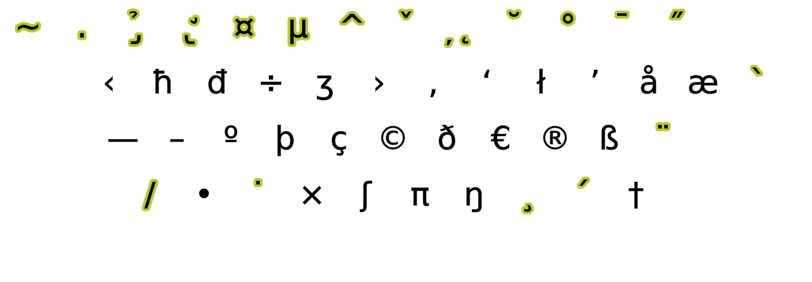
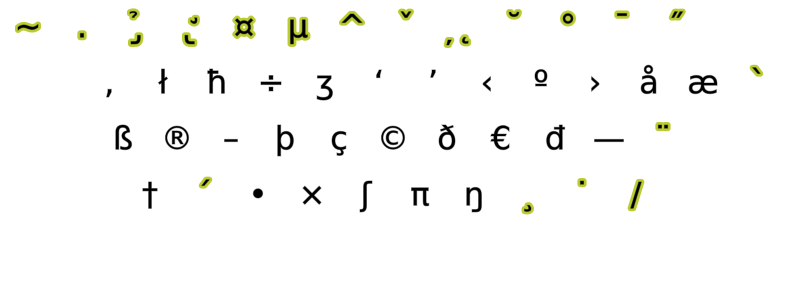
Semimak revised
* Due to too much pinballing, changes were made
* Mostly, column swaps
* As a result, it looks a bit more familiar now

diff --git a/Layouts/Semimak/README.md b/Layouts/Semimak/README.md
@@ -2,7 +2,9 @@ DreymaR's Big Bag Of Keyboard Tricks - EPKL
 ===========================================
 <br><br>
 
-![Semimak help image](./Semimak_ANS-AS_EPKL.png)
+![Semimak AngleSym-ANSI help image](./Semimak_ANS-AS_EPKL.png)
+
+_Semimak AngleSym on an ANSI keyboard_
 
 <br><br>
 
@@ -10,29 +12,25 @@ The Semimak layout
 ------------------
 - This layout was made by Semilin alias Semi based on novel analysis techniques.
 - For more info, see [the Semimak page on github.io][SemGit]
-- This layout spoke to me! It said: "Y havz Q-Wulf? I not, k? CDers b M-JPG. X"
-    - This reads: Why have the Q-Wulf? I don't, okay? CD-ers be M-JPG. Kiss!
-    - I have no idea what the Q-Wulf is, nor why they wouldn't prefer MPEG...
-- For Semimak-eD, I moved the `‹›‚‘’` quotes so they're more logically placed.
-- The `<≤` and `>≥` mappings were swapped, so their positional relation remains.
+- I moved the Semimak-eD `‚‘’` quotes so their relative positions match Colemak-eD.
 <br>
 
 #### Semimak vanilla:
 ```
 +----------------------------+
-| y h a v z   q w u l f  [ ] |
-| i n o t k   c d e r s  ; \ |
-| / b . m j   p g , ' x      |
+| f l h v z   q w u o y  [ ] |
+| s r n t k   c d e a i  ; \ |
+| x ' b m j   p g , . /      |
 +----------------------------+
 I'd add a Sym mod to the brackets-equals-hyphen keys.
 ```
 
-#### Semimak AngleWide-ANSI as suggested by Semi:
+#### Semimak AngleWide-ANSI:
 ```
 +----------------------------+
-| y h a v z  [  q w u l f  x |
-| i n o t k  ]  c d e r s  \ |
-|  b . m j  / ;  p g , '     |
+| f l h v z  [  q w u o y  ; |
+| s r n t k  ]  c d e a i  \ |
+|  ' b m j  x /  p g , .     |
 +----------------------------+
 ```
 
@@ -45,6 +43,12 @@ I'd add a Sym mod to the brackets-equals-hyphen keys.
 |![EPKL help image for Semimak-eD on an ANSI board, AltGr+Shift layer](./Sem-eD_ANS/state7.png)|
 |   :---:   |
 |_The Semimak-eD layout on an ANSI board, AltGr+Shift layer_|
+
+<br>
+
+![Semimak AngleWideSym-ISO help image](./Semimak_ISO-AWS_EPKL.png)
+
+_Semimak AngleWideSym on an ISO keyboard. The © key is a Compose key._
 
 
 [SemGit]: https://semilin.github.io/semimak/ (Semimak on GitHub.io)
